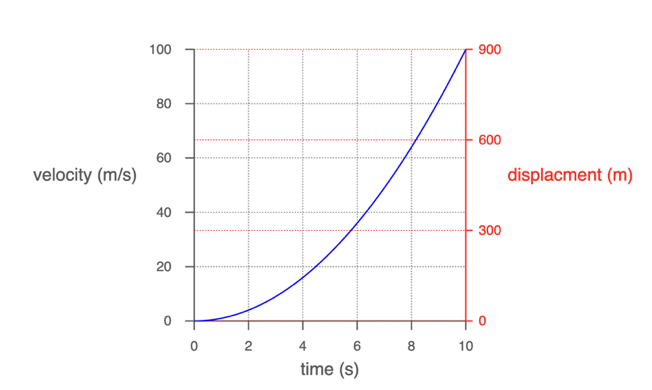
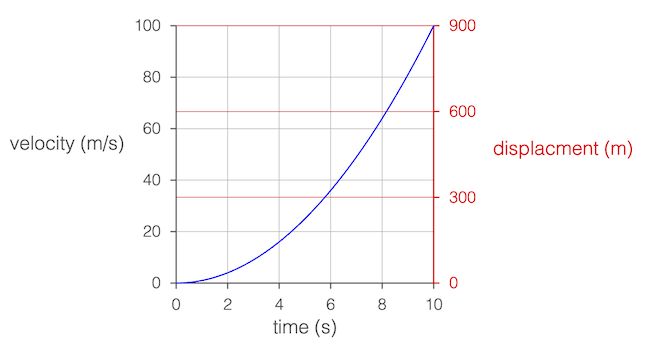
finish plot docs

diff --git a/src/js/figure/FigureCollections/Plot.js b/src/js/figure/FigureCollections/Plot.js
@@ -148,6 +148,11 @@ export type OBJ_PlotTitle = OBJ_TextLines & { offset: TypeParsablePoint };
  * @property {boolean} [autoGrid] if `true` sets the grid for an axes to expand
  * accross the entire plot area. Set to `false` if only a partial length grid
  * is needed (`true`)
+ * @property {'box' | 'numberLine' | 'positiveNumberLine'} [styleTheme] defines
+ * default values for tick, label, axis locations and cross points. (`'box'`)
+ * @property {'light' | 'dark'} [colorTheme] defines defaul colors. `'dark'`
+ * theme is better on light backgrounds while '`light'` theme is better on dark
+ * backgrounds (`'dark'`)
  */
 export type COL_Plot = {
   width?: number,
@@ -170,6 +175,8 @@ export type COL_Plot = {
   cross?: TypeParsablePoint,
   autoGrid?: boolean,
   plotAreaLabels?: boolean,
+  styleTheme?: 'box' | 'numberLine' | 'positiveNumberLine',
+  colorTheme?: 'light' | 'dark',
 } & OBJ_Collection;
 
 function cleanTraces(
@@ -227,13 +234,18 @@ function cleanTraces(
  * labels and titles.
  *
  * ![](./apiassets/advplot_ex1.png)
+ *
  * ![](./apiassets/advplot_ex2.png)
  *
  * ![](./apiassets/advplot_ex3.png)
+ *
  * ![](./apiassets/advplot_ex4.png)
  *
  * ![](./apiassets/advplot_ex5.png)
+ *
  * ![](./apiassets/advplot_ex6.png)
+ *
+ * ![](./apiassets/advplot_zoom.gif)
  *
  * This object provides convient and customizable plot functionality.
  *
@@ -244,6 +256,9 @@ function cleanTraces(
  * Additional options can be used to finely customize each of these, as well
  * as add and customize plot and axis titles, a legend, and a frame around the
  * entire plot.
+ *
+ * Plots can also be interactive, with both zoom and pan functionality from
+ * mouse, mouse wheel, touch and pinch gestures.
  *
  * @see
  * See {@link COL_Axis}, {@link OBJ_AxisLabels}, {@link OBJ_AxisTicks},
@@ -263,7 +278,6 @@ function cleanTraces(
  * @example
  * // Plot of single trace with auto axis scaling
  * figure.add({
- *   name: 'plot',
  *   make: 'collections.plot',
  *   trace: pow(),
  * });
@@ -273,20 +287,19 @@ function cleanTraces(
  * // Some traces are customized beyond the default color to include dashes and
  * // markers
  * figure.add({
- *   name: 'plot',
  *   make: 'collections.plot',
  *   width: 2,                                    // Plot width in figure
  *   height: 2,                                   // Plot height in figure
- *   yAxis: { start: 0, stop: 100 },              // Customize y axis limits
+ *   y: { start: 0, stop: 50 },                   // Customize y axis limits
  *   trace: [
  *     { points: pow(1.5), name: 'Power 1.5' },   // Trace names are for legend
  *     {                                          // Trace with only markers
- *       points: pow(2, 10, 0.5),
+ *       points: pow(2, 0, 10, 0.5),
  *       name: 'Power 2',
  *       markers: { sides: 4, radius: 0.03 },
  *     },
  *     {                                          // Trace with markers and
- *       points: pow(3, 10, 0.5),                 // dashed line
+ *       points: pow(3, 0, 10, 0.5),              // dashed line
  *       name: 'Power 3',
  *       markers: { radius: 0.03, sides: 10, line: { width: 0.005 } },
  *       line: { dash: [0.04, 0.01] },
@@ -295,31 +308,32 @@ function cleanTraces(
  *   legend: true,
  * });
  *
- * @example > collections.plot.multiple.grids.simple.titles
+ * @example
  * // Multiple grids and simple titles
  * figure.add({
- *   name: 'plot',
  *   make: 'collections.plot',
- *   width: 2,
- *   height: 2,
- *   yAxis: {
- *     start: 0,
- *     stop: 100,
+ *   y: {
+ *     start: -50,
+ *     stop: 50,
+ *     step: [25, 5],
  *     grid: [
- *       { step: 20, width: 0.005, dash: [], color: [0.7, 0.7, 1, 1] },
- *       { step: 5, width: 0.005, dash: [0.01, 0.01], color: [1, 0.7, 0.7, 1] },
+ *       true,
+ *       { width: 0.005, dash: [0.01, 0.01], color: [1, 0.7, 0.7, 1] },
  *     ],
  *     title: 'velocity (m/s)',
  *   },
- *   xAxis: {
+ *   x: {
+ *     start: -5,
+ *     stop: 5,
+ *     step: [2.5, 0.5, 0.1],
  *     grid: [
- *       { step: 2, width: 0.005, dash: [], color: [0.7, 0.7, 1, 1] },
- *       { step: 0.5, width: 0.005, dash: [0.01, 0.01], color: [1, 0.7, 0.7, 1] },
+ *       true,
+ *       { width: 0.005, dash: [0.01, 0.01], color: [1, 0.7, 0.7, 1] },
  *     ],
  *     title: 'time (s)',
  *   },
- *   trace: pow(3),
- *   title: 'Velocity over Time'
+ *   trace: pow(3, -10, 10),
+ *   title: 'Velocity over Time',
  * });
  *
  * @example
@@ -327,13 +341,10 @@ function cleanTraces(
  * // Use plot frame and plot area
  * // Title has a subtitle
  * figure.add({
- *   name: 'plot',
  *   make: 'collections.plot',
- *   width: 2,
- *   height: 2,
  *   trace: pow(3),
- *   xAxis: { show: false },
- *   yAxis: { show: false },
+ *   x: { show: false },
+ *   y: { show: false },
  *   plotArea: [0.93, 0.93, 0.93, 1],
  *   frame: {
  *     line: { width: 0.005, color: [0.5, 0.5, 0.5, 1] },
@@ -346,48 +357,35 @@ function cleanTraces(
  *       { text: 'For object A', lineSpace: 0.13, font: { size: 0.08 } },
  *     ],
  *     offset: [0, 0],
- *   }
+ *   },
  * });
  *
  * @example
  * // Secondary y axis
  * figure.add({
- *   name: 'plot',
  *   make: 'collections.plot',
- *   width: 2,
- *   height: 2,
  *   trace: pow(2),
- *   yAxis: {
+ *   y: {
  *     title: {
  *       text: 'velocity (m/s)',
  *       rotation: 0,
  *       xAlign: 'right',
  *     },
  *   },
- *   xAxis: { title: 'time (s)' },
+ *   x: { title: 'time (s)' },
  *   axes: [
  *     {
  *       axis: 'y',
  *       start: 0,
  *       stop: 900,
+ *       step: 300,
  *       color: [1, 0, 0, 1],
- *       position: [2, 0],
- *       ticks: {
- *         step: 300,
- *         offset: 0,
- *         length: 0.05,
- *       },
- *       labels: {
- *         offset: [0.2, 0],
- *         precision: 0,
- *         xAlign: 'left',
- *       },
+ *       location: 'right',
  *       title: {
- *         offset: [0.4, 0],
- *         xAlign: 'left',
+ *         offset: [0.6, 0.1],
  *         text: 'displacment (m)',
  *         rotation: 0,
- *       }
+ *       },
  *     },
  *   ],
  *   position: [-1, -1],
@@ -398,77 +396,46 @@ function cleanTraces(
  * // Automatic layout doesn't support this, but axes, ticks, labels and titles
  * // can all be customized to create it.
  * figure.add({
- *   name: 'plot',
  *   make: 'collections.plot',
- *   width: 3,
- *   height: 3,
- *   trace: pow(2, 20),
+ *   trace: pow(3, -10, 10),
  *   font: { size: 0.1 },
- *   xAxis: {
- *     start: -25,
- *     stop: 25,
- *     ticks: {
- *       start: -20,
- *       stop: 20,
- *       step: 5,
- *       length: 0.1,
- *       offset: -0.05
- *     },
- *     line: { arrow: 'barb' },
- *     position: [0, 1.5],
- *     labels: [
- *       {
- *         hide: 4,
- *         precision: 0,
- *         space: 0.1,
- *       },
- *       {
- *         values: 0,
- *         text: 'O',
- *         offset: [0, 0.165],
- *       },
- *     ],
+ *   styleTheme: 'numberLine',
+ *   x: {
  *     title: {
  *       text: 'x',
- *       offset: [1.65, 0.3],
- *       font: {
- *         style: 'italic',
- *         family: 'Times New Roman',
- *         size: 0.15,
- *       },
+ *       font: { style: 'italic', family: 'Times New Roman', size: 0.15 },
  *     },
  *   },
- *   yAxis: {
- *     start: -500,
- *     stop: 500,
- *     line: { arrow: 'barb' },
- *     ticks: {
- *       start: -400,
- *       stop: 400,
- *       step: 100,
- *       length: 0.1,
- *       offset: -0.05,
- *     },
- *     position: [1.5, 0],
- *     labels: {
- *       hide: 4,
- *       precision: 0,
- *       space: 0.03,
- *     },
+ *   y: {
+ *     step: 500,
  *     title: {
  *       text: 'y',
- *       offset: [0.35, 1.6],
- *       font: {
- *         style: 'italic',
- *         family: 'Times New Roman',
- *         size: 0.15,
- *       },
- *       rotation: 0,
+ *       font: { style: 'italic', family: 'Times New Roman', size: 0.15 },
  *     },
  *   },
  *   grid: false,
- *   position: [-1, -1],
  * });
+ *
+ * @example
+ * // Zoomable and Pannable plot
+ *
+ * // Create the points for the plot
+ * const points = Array(3000).fill(0).map(() => {
+ *   const x = Math.random() * 8 - 4;
+ *   const y = Math.random() / Math.sqrt(2 * Math.PI) * Math.exp(-0.5 * x ** 2);
+ *   return [x, y];
+ * });
+ *
+ * // Make a zoomable and pannable plot
+ * const plot = figure.add({
+ *   make: 'collections.plot',
+ *   trace: { points, markers: { sides: 6, radius: 0.01 } },
+ *   zoom: { axis: 'xy', min: 0.5, max: 16 },
+ *   pan: true,
+ * });
+ *
+ * // Initialize by zooming in on [1.78, 0.067] by a magnification factor of 10
+ * plot.zoomValue([1.78, 0.067], 10);
  *
  */
 // $FlowFixMe
@@ -885,6 +852,9 @@ class CollectionsPlot extends FigureElementCollection {
       this.zoom.y = zOptions.axis.endsWith('y');
       this.zoom.min = zOptions.min;
       this.zoom.max = zOptions.max;
+      // $FlowFixMe
+      options.zoom.min = null; // $FlowFixMe
+      options.zoom.max = null;
     }
     if (panOptions != null && panOptions !== false) {
       const defaultOptions = {
@@ -1360,6 +1330,7 @@ class CollectionsPlot extends FigureElementCollection {
     if (x != null && this.zoom.enabled && this.zoom.x) {
       const v = this.zoomPoint != null ? this.zoomPoint.x : value.x;
       const m = clipValue(x.currentZoom * magDelta, this.zoom.min, this.zoom.max);
+      // console.log(x.currentZoom, magDelta, x.currentZoom * magDelta)
       x.zoomDelta(v, m / x.currentZoom);
     }
     const y = this.getYAxis();

diff --git a/src/js/figure/FigureCollections/Axis.js b/src/js/figure/FigureCollections/Axis.js
@@ -65,8 +65,8 @@ function calcAuto(auto: [number, number]) {
       step = newRange / 5;
   }
   let precision = 0;
-  if (order < 0) {
-    precision = Math.abs(order) + 1;
+  if (order < 2) {
+    precision = Math.abs(order) + 3;
   }
   return {
     start: round(newStart),
